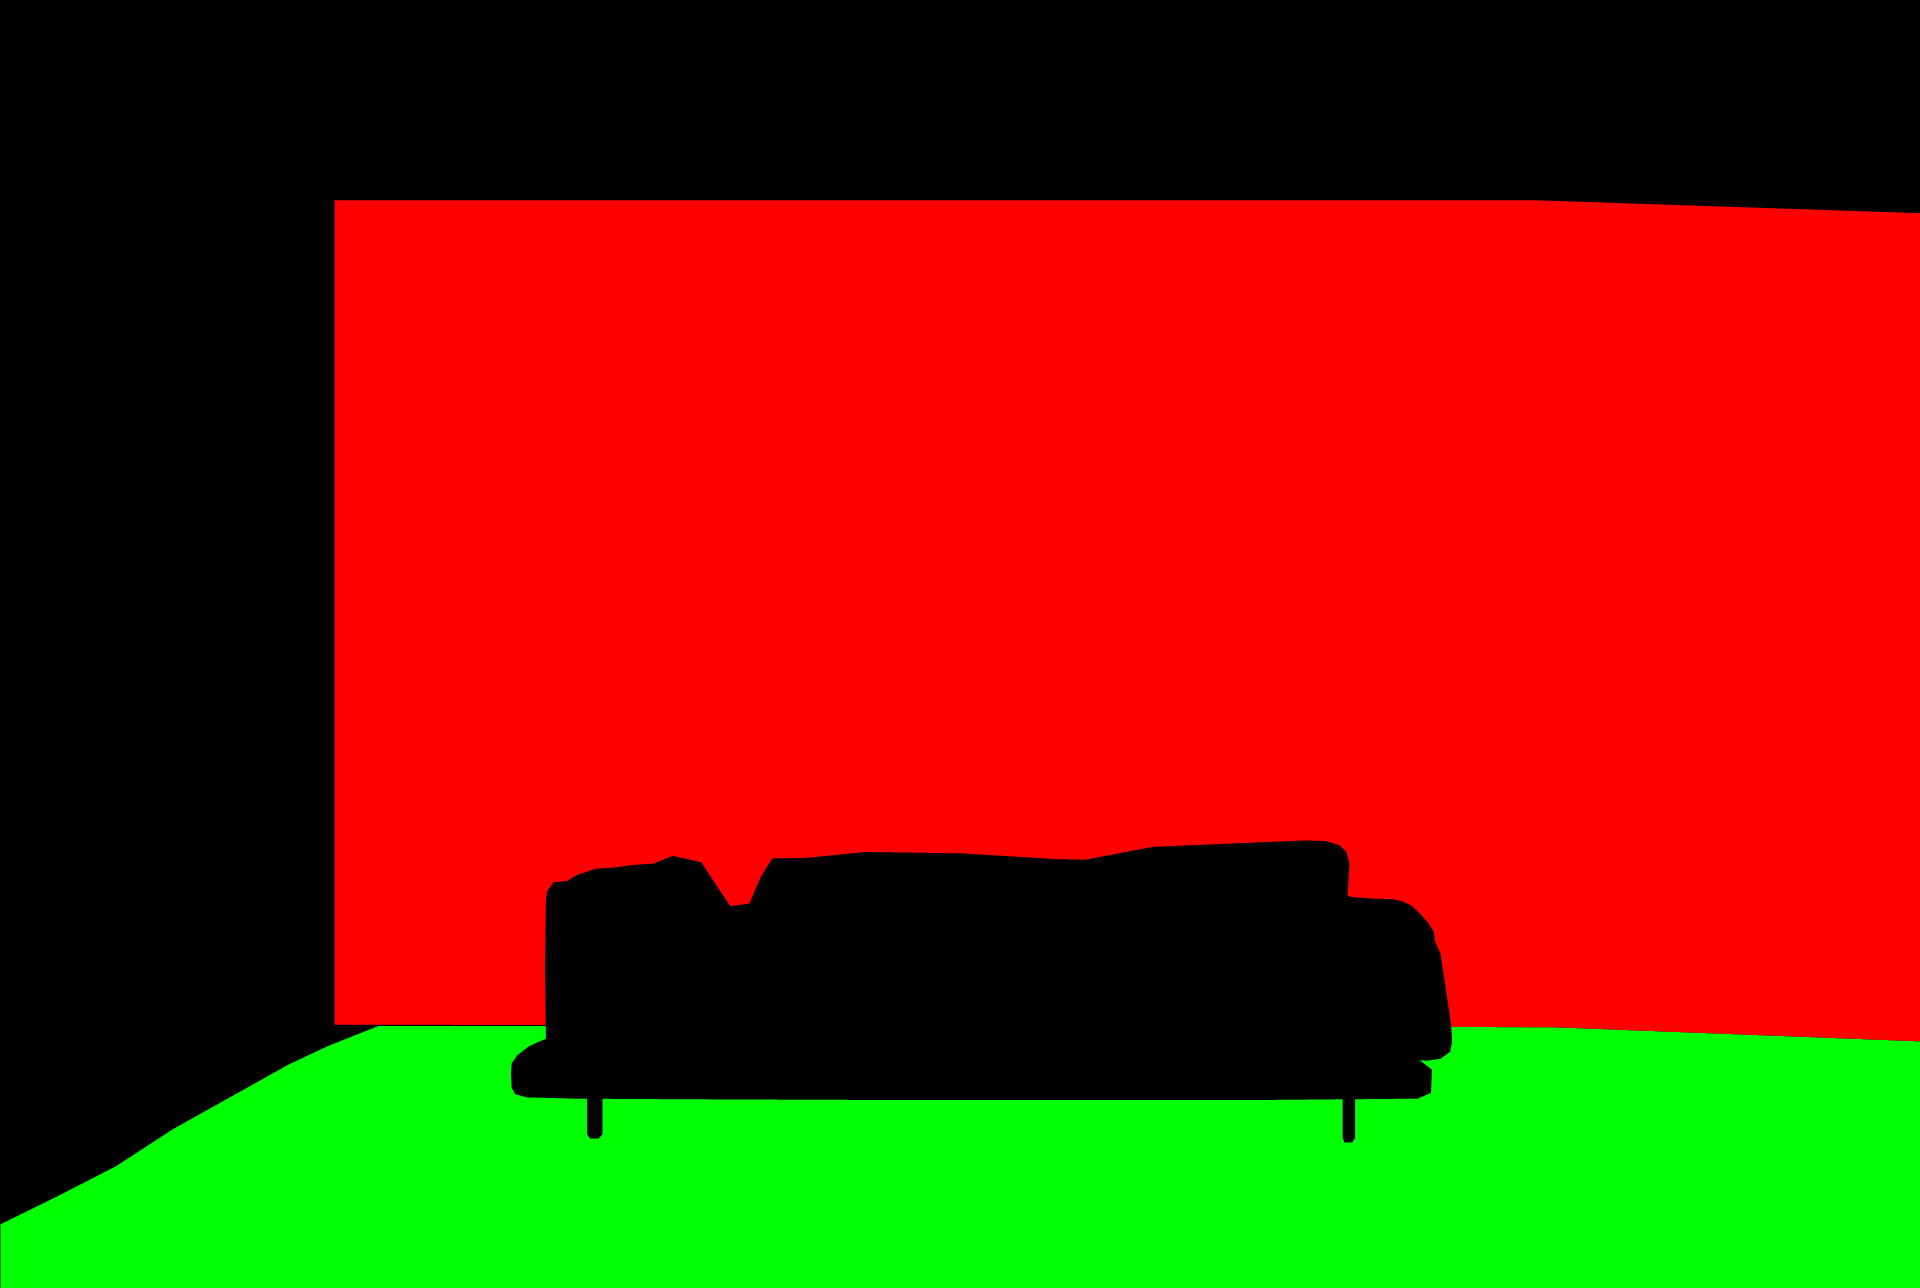
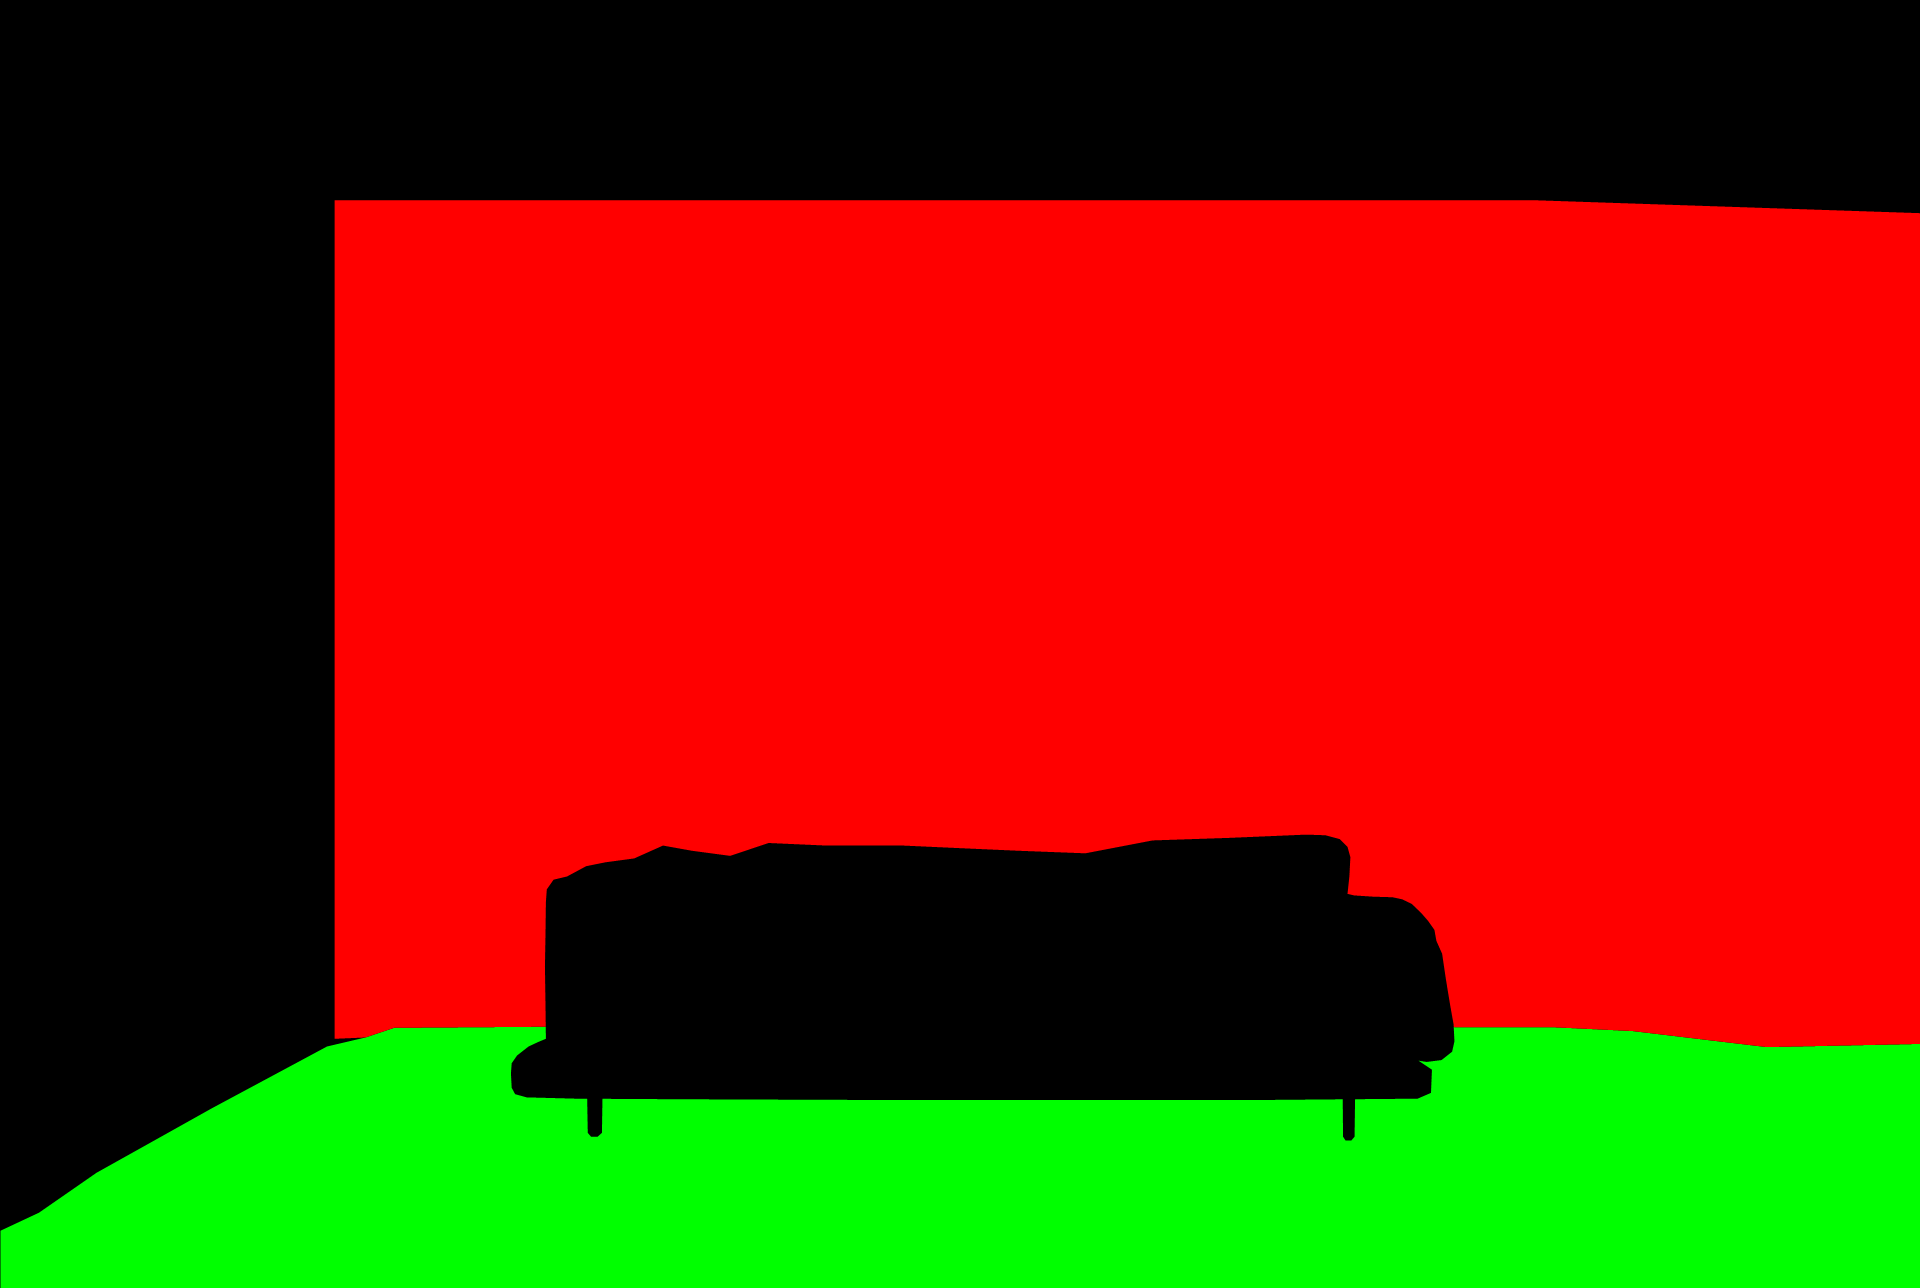
Konfigurator innen: Feinschliff nach Markierungen (Sofa-Oberkante, Boden-Raender)
- Rot: Kissen-Oberkante hoeher gesetzt (Klinker biss in die Kissen); die
  Schattenfalte zwischen Zierkissen und Polster gehoert zum Sofa (kein
  Klinker-Keil mehr); Decke rechts mit etwas mehr Rand inkl. Fransen.
- Gruen: Wand links unten bis zur Fensterschiene geklinkert (weisse
  Sockelflaeche neben dem Sofa beseitigt).
- Gelb links: Bodenplatten exakt bis zur gemessenen Unterkante der
  Fensterschiene (paint-Polygon in app.js war kleiner als die Masken-
  Flaeche -> heller Streifen); Polygon jetzt mit Marge, G-Kanal schneidet.
- Gelb rechts: Wand-/Bodenlinie rechts neu vermessen (faellt zur Ecke hin
  auf ~0.812) -> Klinker und Platten schliessen ohne Luecke an.
- Beine: Fuss-Ausschnitte enger (0.882/0.885), Platten bis an die Beine.
- Uebergang Wand/Boden automatisiert auf Lueckenfreiheit geprueft.

diff --git a/assets/js/app.js b/assets/js/app.js
@@ -773,8 +773,8 @@
       floor:[[0.06,0.845],[0.94,0.845],[1.0,1.0],[0.0,1.0]],
       facadeTiles:8, floorTiles:5, floorHorizon:0.775 },
     interior:{ src:'assets/img/scenes/wohnzimmer.jpg', mask:'assets/img/scenes/wohnzimmer-mask.png',
-      // whole back wall = glass-door reveal (0.174) → right image edge (1.0), ceiling (0.155) → floor line (0.80)
-      facade:{x0:0.174,y0:0.155,x1:1.0,y1:0.808},
+      // whole back wall = glass-door reveal (0.174) → right image edge (1.0), ceiling (0.155) → floor line (~0.81)
+      facade:{x0:0.174,y0:0.155,x1:1.0,y1:0.813},
       openings:[
         // NOTE: the sofa is NOT an opening — its pixel-accurate silhouette (rounded arms,
         // draped blanket incl. fringe, tight legs) is carved directly into the mask's
@@ -786,8 +786,9 @@
         // vase on the console (tight taper so the brick fills right up to it)
         [0.926,0.574, 0.941,0.574, 0.941,0.596, 0.951,0.612, 0.951,0.646, 0.917,0.646, 0.917,0.612, 0.926,0.596]
       ],
-      // interior floor only; left edge follows the glass-door sill so the outdoor area stays untiled
-      floor:[[0.20,0.793],[0.808,0.797],[1.0,0.808],[1.0,1.0],[0.0,1.0],[0.0,0.975],[0.024,0.94],[0.096,0.882],[0.156,0.83]],
+      // paver paint region — slightly LARGER than the mask's G area on every edge; the
+      // G channel (destination-in) trims it to the exact wall line + window-rail diagonal
+      floor:[[0.19,0.790],[0.85,0.793],[0.92,0.806],[1.0,0.803],[1.0,1.0],[0.0,1.0],[0.0,0.947],[0.02,0.933],[0.05,0.902],[0.08,0.877],[0.11,0.852],[0.14,0.828],[0.17,0.804],[0.185,0.797]],
       floorHorizon:0.47, facadeTiles:9, floorPavers:15, restore:true, key:{lum:70,sat:0.42,blue:60} }
   };
   const sceneImgCache={};